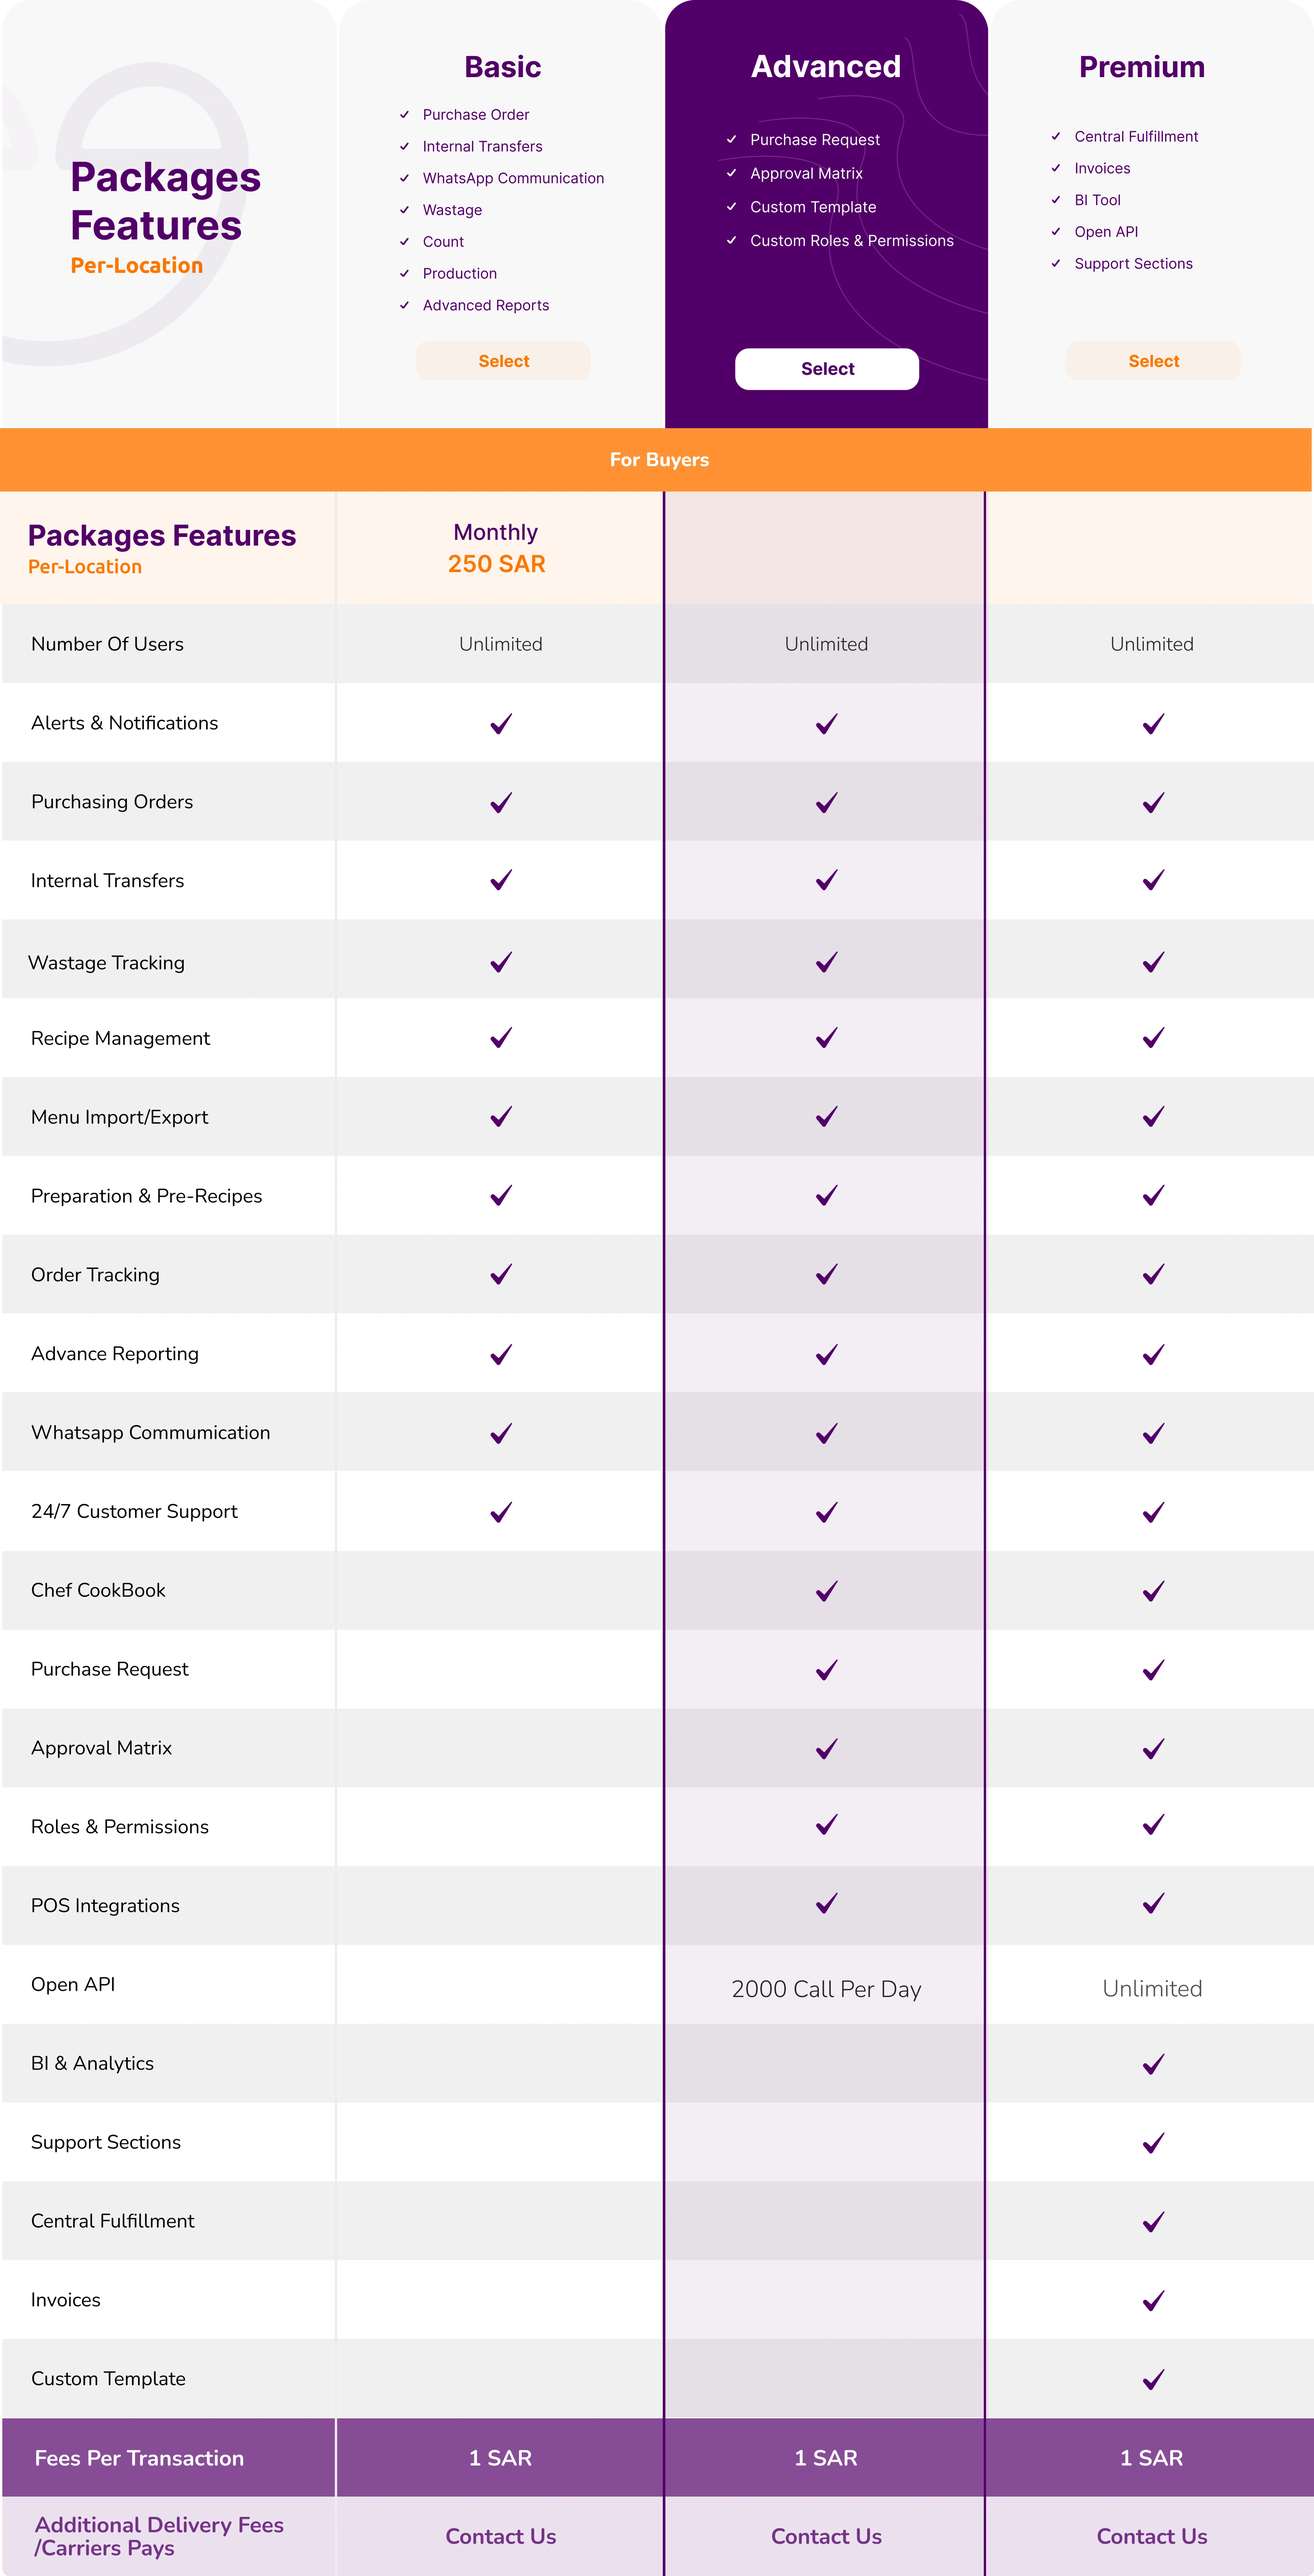
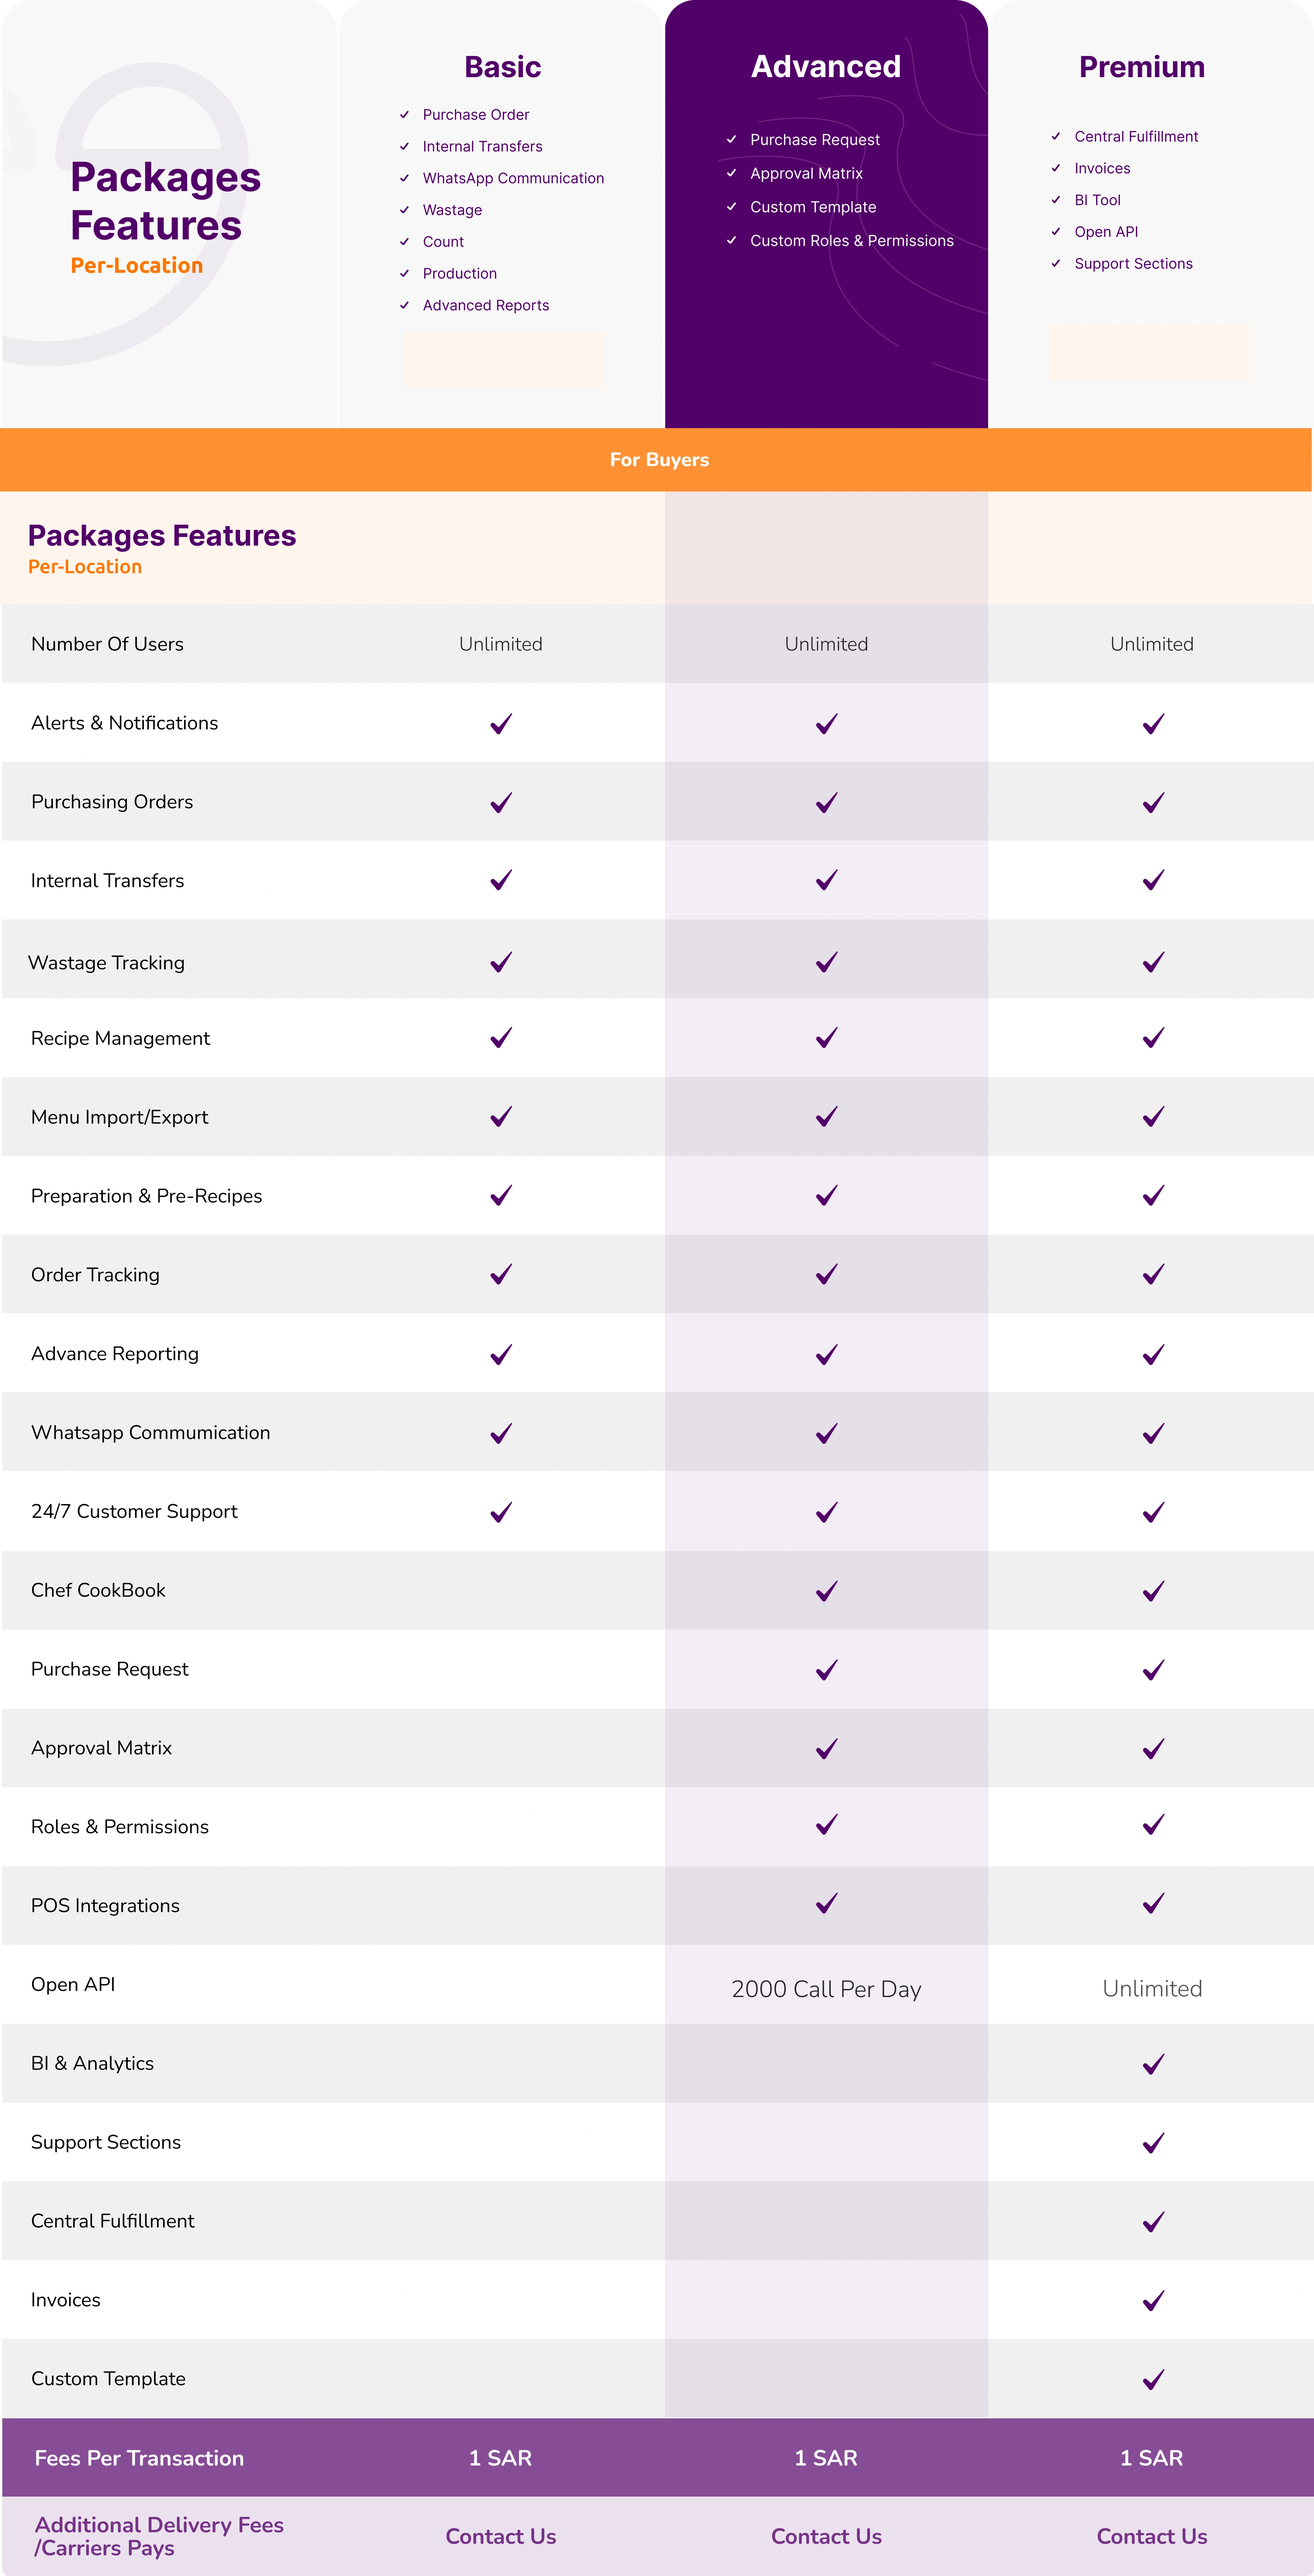
Make buttons location responsive to different screens

Changed region(s): [[0.5622, 0.1245, 0.7183, 0.1556], [0.3435, 0.1868, 0.406, 0.2179]]

diff --git a/src/pages/plans_2/InventoryManagement.jsx b/src/pages/plans_2/InventoryManagement.jsx
@@ -273,7 +273,6 @@ const InventoryManagement = () => {
               >
                 <div
                   style={{
-                    backgroundColor: "#faf9ec",
                     width: "10rem",
                     height: "5rem",
                   }}
@@ -307,7 +306,6 @@ const InventoryManagement = () => {
               >
                 <div
                   style={{
-                    backgroundColor: "#f9f1e4",
                     width: "10rem",
                     height: "5rem",
                   }}
@@ -341,7 +339,6 @@ const InventoryManagement = () => {
               >
                 <div
                   style={{
-                    backgroundColor: "#faf9ec",
                     width: "10rem",
                     height: "5rem",
                   }}

diff --git a/src/pages/plans_2/style.css b/src/pages/plans_2/style.css
@@ -3,3 +3,13 @@
         width: 253vw !important;
     }
 }
+
+@media (max-width: 404px) {
+    .sm > div:nth-child(2n-1) {
+        margin-top: 66vw !important;
+    }
+
+    .sm > div:nth-child(2n) {
+        margin-top: 24vw !important;
+    }
+}
